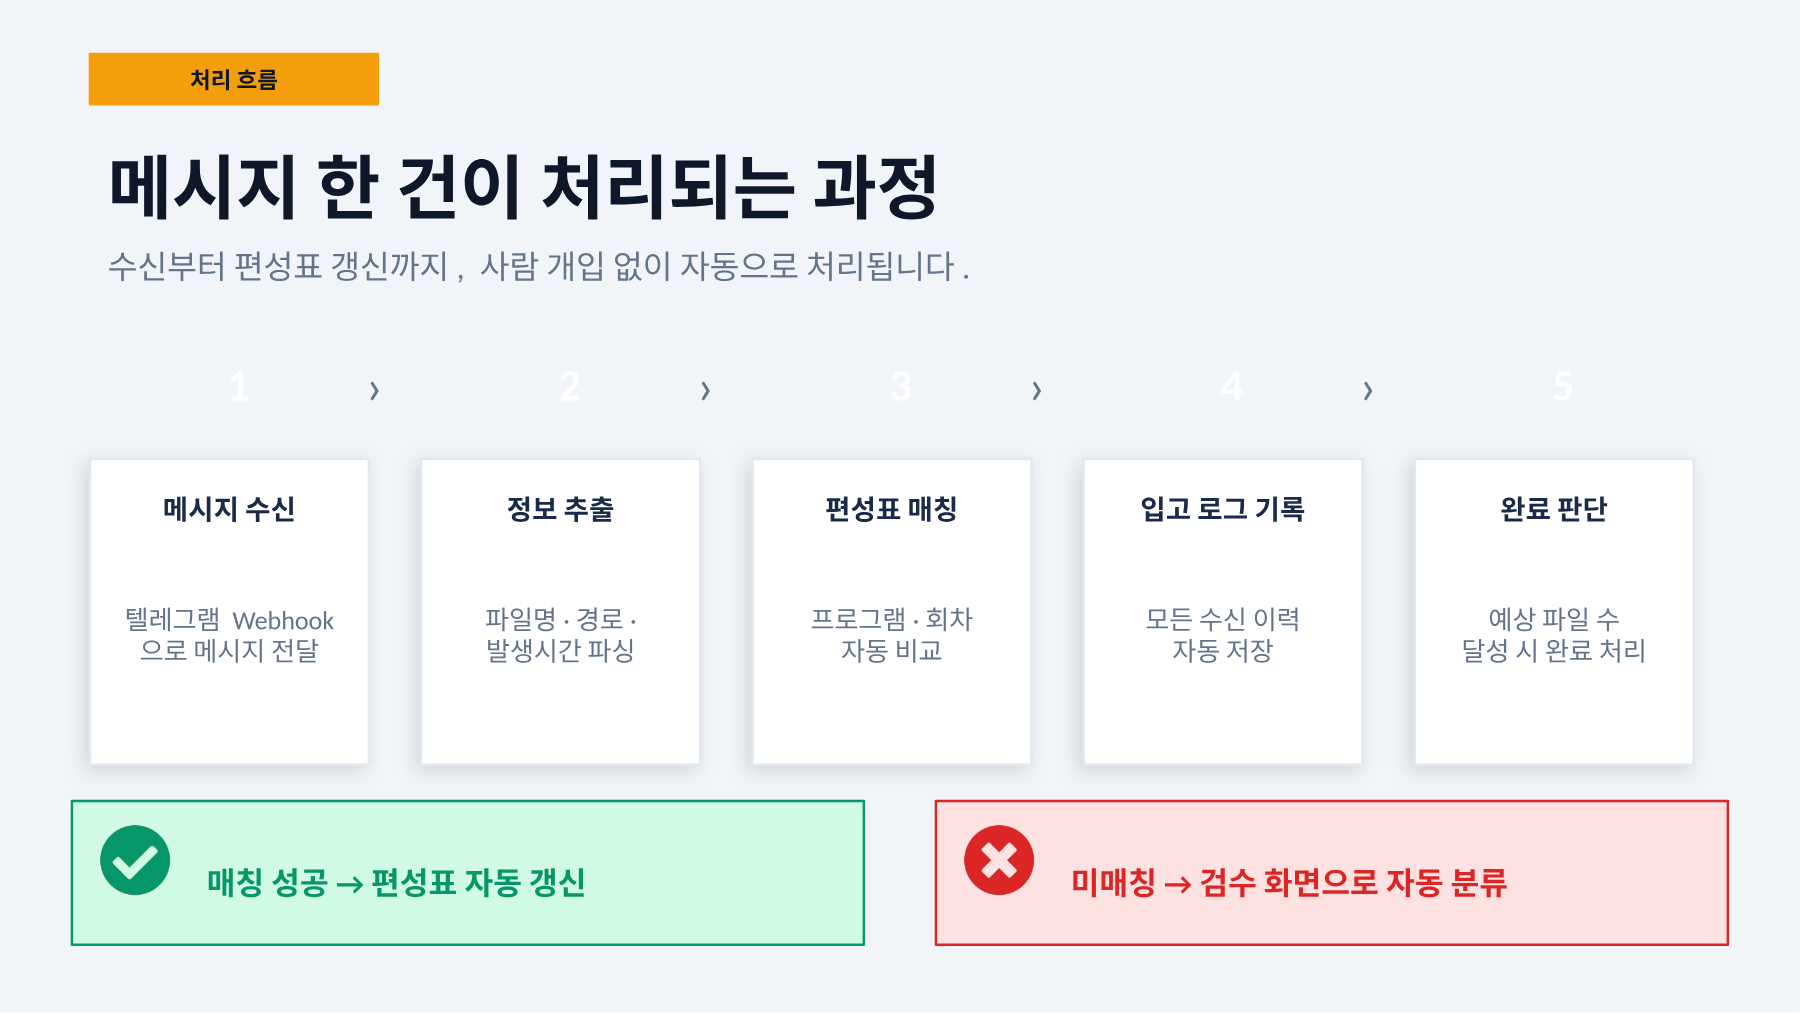
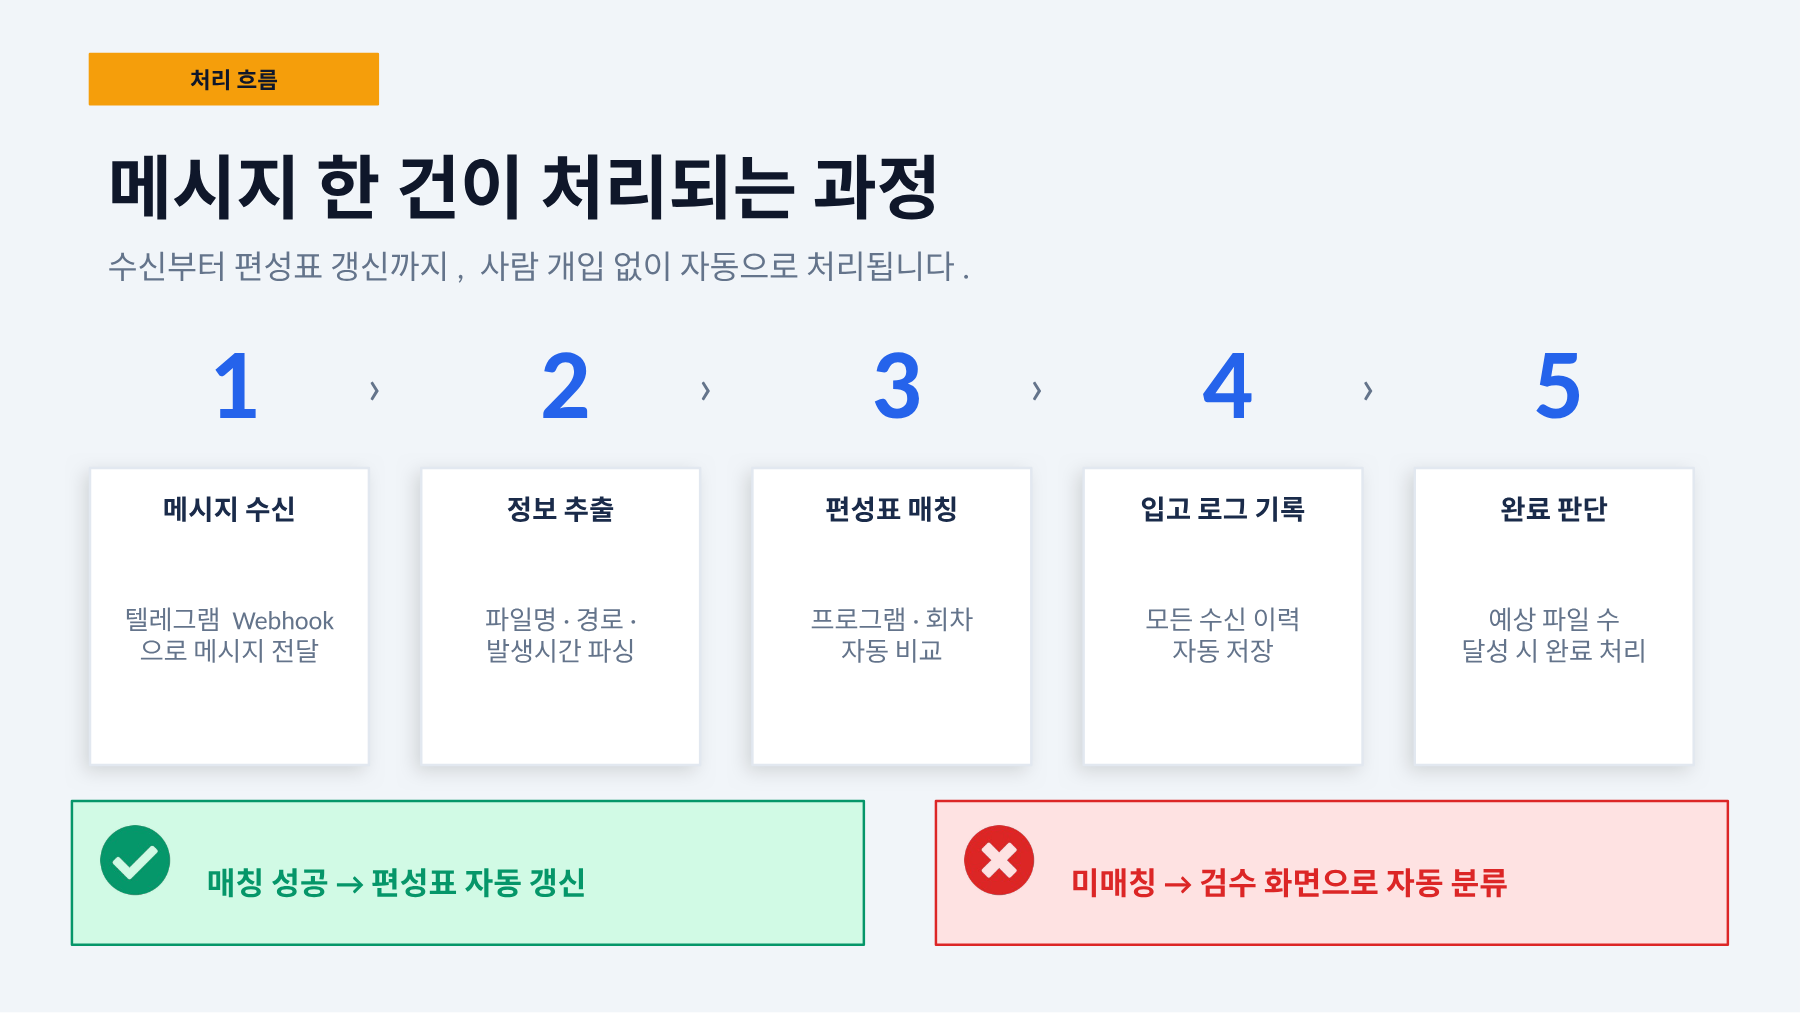
Update PDF deck and slide controls

diff --git a/docs/app.js b/docs/app.js
@@ -1,54 +1,136 @@
-const slides = Array.from({ length: 10 }, (_, index) => ({
-  src: `./assets/slides/slide-${String(index + 1).padStart(2, "0")}.png`,
+const fallbackSlides = Array.from({ length: 10 }, (_, index) => ({
+  src: `assets/slides/slide-${String(index + 1).padStart(2, "0")}.png`,
 }));
 
-const image = document.querySelector("#slideImage");
 const card = document.querySelector("#slideCard");
+const images = [
+  document.querySelector("#slideImageA"),
+  document.querySelector("#slideImageB"),
+];
 const prevButton = document.querySelector("#prevButton");
 const nextButton = document.querySelector("#nextButton");
 const fullscreenButton = document.querySelector("#fullscreenButton");
 const currentSlide = document.querySelector("#currentSlide");
 const totalSlides = document.querySelector("#totalSlides");
+const progressTrack = document.querySelector("#progressTrack");
 const progressFill = document.querySelector("#progressFill");
 
+let slides = fallbackSlides;
 let index = 0;
-let isAnimating = false;
+let activeLayer = 0;
+let isTransitioning = false;
+const imageCache = new Map();
 
-totalSlides.textContent = String(slides.length).padStart(2, "0");
+async function loadManifest() {
+  try {
+    const response = await fetch("./assets/manifest.json", { cache: "no-store" });
+    if (!response.ok) {
+      throw new Error(`manifest ${response.status}`);
+    }
+    const manifest = await response.json();
+    if (Array.isArray(manifest.slides) && manifest.slides.length > 0) {
+      slides = manifest.slides.map((slide) => ({ src: slide.src }));
+    }
+  } catch (error) {
+    console.warn("Using fallback slide list:", error);
+  }
+}
 
-function preloadSlides() {
-  slides.forEach((slide) => {
+function normalizeSrc(src) {
+  return src.startsWith("./") ? src : `./${src}`;
+}
+
+function ensureImageLoaded(src) {
+  const normalized = normalizeSrc(src);
+  if (imageCache.has(normalized)) {
+    return imageCache.get(normalized);
+  }
+
+  const promise = new Promise((resolve, reject) => {
     const img = new Image();
-    img.src = slide.src;
+    img.decoding = "async";
+    img.onload = () => resolve(normalized);
+    img.onerror = reject;
+    img.src = normalized;
+  });
+
+  imageCache.set(normalized, promise);
+  return promise;
+}
+
+function preloadNearby() {
+  [index - 1, index + 1, index + 2].forEach((candidate) => {
+    if (candidate >= 0 && candidate < slides.length) {
+      ensureImageLoaded(slides[candidate].src).catch(() => {});
+    }
   });
 }
 
-function updateUi(direction = "next") {
-  const slide = slides[index];
-  isAnimating = true;
-  card.classList.remove("enter-next", "enter-prev", "flash", "is-loading");
-  void card.offsetWidth;
-  card.classList.add(direction === "prev" ? "enter-prev" : "enter-next", "flash");
-  image.src = slide.src;
-  image.alt = `텔레그램 입고 자동화 시스템 ${index + 1}번째 슬라이드`;
-
+function updateChrome() {
   currentSlide.textContent = String(index + 1).padStart(2, "0");
+  totalSlides.textContent = String(slides.length).padStart(2, "0");
   progressFill.style.width = `${((index + 1) / slides.length) * 100}%`;
+  progressTrack.setAttribute("aria-valuemax", String(slides.length));
+  progressTrack.setAttribute("aria-valuenow", String(index + 1));
   prevButton.disabled = index === 0;
   nextButton.disabled = index === slides.length - 1;
+}
+
+async function renderSlide(nextIndex, direction = "next", immediate = false) {
+  if (nextIndex < 0 || nextIndex >= slides.length) {
+    return;
+  }
+
+  if (isTransitioning && !immediate) {
+    return;
+  }
+
+  const previousIndex = index;
+  index = nextIndex;
+  updateChrome();
+
+  const nextSrc = await ensureImageLoaded(slides[index].src);
+  const incomingLayer = immediate ? activeLayer : 1 - activeLayer;
+  const outgoingLayer = activeLayer;
+  const incoming = images[incomingLayer];
+  const outgoing = images[outgoingLayer];
+
+  incoming.src = nextSrc;
+  incoming.alt = `텔레그램 입고 자동화 시스템 ${index + 1}번째 슬라이드`;
+
+  if (immediate) {
+    images.forEach((image, layerIndex) => {
+      image.classList.toggle("is-active", layerIndex === incomingLayer);
+      image.classList.remove("enter-next", "enter-prev");
+    });
+    card.classList.remove("is-loading");
+    activeLayer = incomingLayer;
+    preloadNearby();
+    return;
+  }
+
+  isTransitioning = true;
+  const resolvedDirection = direction || (index > previousIndex ? "next" : "prev");
+  incoming.classList.remove("enter-next", "enter-prev", "is-active");
+  outgoing.classList.remove("enter-next", "enter-prev");
+  void incoming.offsetWidth;
+
+  incoming.classList.add("is-active", resolvedDirection === "prev" ? "enter-prev" : "enter-next");
+  outgoing.classList.remove("is-active");
+  activeLayer = incomingLayer;
 
   window.setTimeout(() => {
-    isAnimating = false;
-    card.classList.remove("enter-next", "enter-prev", "flash");
-  }, 650);
+    incoming.classList.remove("enter-next", "enter-prev");
+    isTransitioning = false;
+    preloadNearby();
+  }, 420);
 }
 
 function goTo(nextIndex, direction) {
-  if (isAnimating || nextIndex < 0 || nextIndex >= slides.length || nextIndex === index) {
+  if (nextIndex === index) {
     return;
   }
-  index = nextIndex;
-  updateUi(direction);
+  renderSlide(nextIndex, direction);
 }
 
 function next() {
@@ -57,6 +139,14 @@ function next() {
 
 function prev() {
   goTo(index - 1, "prev");
+}
+
+function seekFromProgress(clientX) {
+  const rect = progressTrack.getBoundingClientRect();
+  const ratio = Math.min(1, Math.max(0, (clientX - rect.left) / rect.width));
+  const nextIndex = Math.round(ratio * (slides.length - 1));
+  const direction = nextIndex < index ? "prev" : "next";
+  goTo(nextIndex, direction);
 }
 
 async function toggleFullscreen() {
@@ -73,11 +163,37 @@ prevButton.addEventListener("click", prev);
 nextButton.addEventListener("click", next);
 fullscreenButton.addEventListener("click", toggleFullscreen);
 
+progressTrack.addEventListener("click", (event) => {
+  seekFromProgress(event.clientX);
+});
+
+progressTrack.addEventListener("keydown", (event) => {
+  if (event.key === "ArrowRight" || event.key === "PageDown") {
+    event.preventDefault();
+    next();
+  }
+  if (event.key === "ArrowLeft" || event.key === "PageUp") {
+    event.preventDefault();
+    prev();
+  }
+  if (event.key === "Home") {
+    event.preventDefault();
+    goTo(0, "prev");
+  }
+  if (event.key === "End") {
+    event.preventDefault();
+    goTo(slides.length - 1, "next");
+  }
+});
+
 document.addEventListener("fullscreenchange", () => {
   fullscreenButton.textContent = document.fullscreenElement ? "전체화면 종료" : "전체화면";
 });
 
 document.addEventListener("keydown", (event) => {
+  if (event.target === progressTrack) {
+    return;
+  }
   if (event.key === "ArrowRight" || event.key === " " || event.key === "PageDown") {
     event.preventDefault();
     next();
@@ -118,5 +234,6 @@ document.addEventListener("touchend", (event) => {
   }
 }, { passive: true });
 
-preloadSlides();
-updateUi("next");
+await loadManifest();
+updateChrome();
+renderSlide(0, "next", true);

diff --git a/docs/styles.css b/docs/styles.css
@@ -191,13 +191,32 @@ button {
   animation: sheen 720ms ease;
 }
 
-#slideImage {
+.slide-image {
+  position: absolute;
+  inset: 0;
   display: block;
   width: 100%;
   height: 100%;
   object-fit: contain;
+  opacity: 0;
   user-select: none;
   background: #f4f8fc;
+  transform: translateZ(0);
+  transition: opacity 240ms ease;
+  will-change: opacity, transform;
+}
+
+.slide-image.is-active {
+  z-index: 1;
+  opacity: 1;
+}
+
+.slide-image.enter-next {
+  animation: imageInNext 420ms cubic-bezier(0.16, 1, 0.3, 1) both;
+}
+
+.slide-image.enter-prev {
+  animation: imageInPrev 420ms cubic-bezier(0.16, 1, 0.3, 1) both;
 }
 
 .nav-button {
@@ -264,20 +283,42 @@ button {
 .progress-track {
   position: relative;
   flex: 1;
-  height: 6px;
+  height: 18px;
   overflow: hidden;
   border-radius: 999px;
+  background: transparent;
+  cursor: pointer;
+  outline: none;
+}
+
+.progress-track::before {
+  content: "";
+  position: absolute;
+  left: 0;
+  right: 0;
+  top: 50%;
+  height: 6px;
+  border-radius: 999px;
   background: rgba(255, 255, 255, 0.14);
+  transform: translateY(-50%);
+}
+
+.progress-track:focus-visible::before {
+  box-shadow: 0 0 0 3px rgba(107, 213, 255, 0.28);
 }
 
 .progress-fill {
   position: absolute;
-  inset: 0 auto 0 0;
+  left: 0;
+  top: 50%;
+  height: 6px;
   width: 10%;
   border-radius: inherit;
   background: linear-gradient(90deg, var(--accent), var(--cyan));
   box-shadow: 0 0 26px rgba(107, 213, 255, 0.55);
+  transform: translateY(-50%);
   transition: width 360ms ease;
+  pointer-events: none;
 }
 
 .hint {
@@ -324,6 +365,28 @@ button {
   }
   to {
     background-position: 220% 0, 0 0;
+  }
+}
+
+@keyframes imageInNext {
+  from {
+    opacity: 0.24;
+    transform: translateX(4.5vw) scale(0.985);
+  }
+  to {
+    opacity: 1;
+    transform: translateX(0) scale(1);
+  }
+}
+
+@keyframes imageInPrev {
+  from {
+    opacity: 0.24;
+    transform: translateX(-4.5vw) scale(0.985);
+  }
+  to {
+    opacity: 1;
+    transform: translateX(0) scale(1);
   }
 }
 

diff --git a/docs/index.html b/docs/index.html
@@ -14,7 +14,8 @@
 
       <section class="stage" id="stage" aria-live="polite">
         <div class="slide-card is-loading" id="slideCard">
-          <img id="slideImage" alt="발표 슬라이드" draggable="false" />
+          <img class="slide-image is-active" id="slideImageA" alt="발표 슬라이드" draggable="false" />
+          <img class="slide-image" id="slideImageB" alt="" draggable="false" />
         </div>
       </section>
 
@@ -39,13 +40,22 @@
           <span>/</span>
           <span id="totalSlides">10</span>
         </div>
-        <div class="progress-track" aria-hidden="true">
+        <div
+          class="progress-track"
+          id="progressTrack"
+          role="slider"
+          aria-label="슬라이드 위치"
+          aria-valuemin="1"
+          aria-valuemax="10"
+          aria-valuenow="1"
+          tabindex="0"
+        >
           <div class="progress-fill" id="progressFill"></div>
         </div>
         <div class="hint">← → / Space</div>
       </footer>
     </main>
 
-    <script src="./app.js"></script>
+    <script type="module" src="./app.js"></script>
   </body>
 </html>